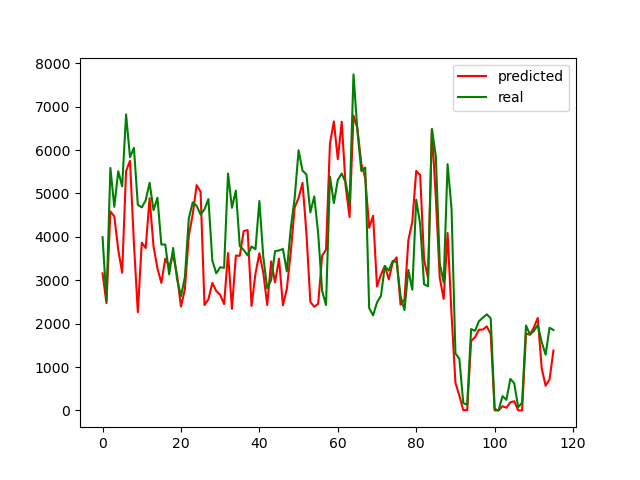
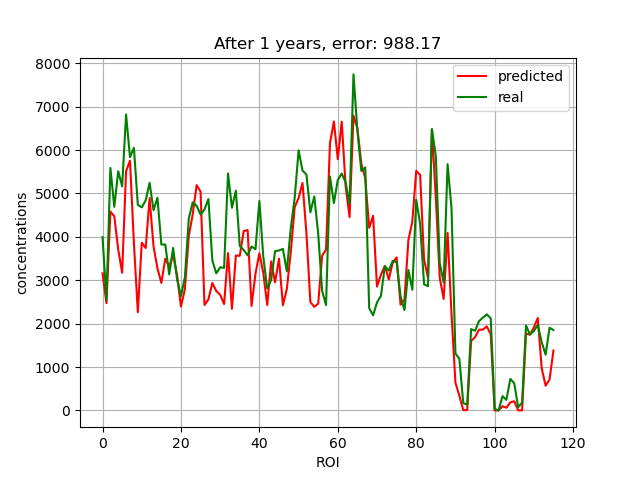
added plot axes labels

diff --git a/simulation_EMS/simulation_EMS.py b/simulation_EMS/simulation_EMS.py
@@ -176,10 +176,14 @@ class EMS_Simulation:
         plt.colorbar()
         return plt.show()
 
-    def plot_predicted_vs_real(self, predicted, real):
+    def plot_predicted_vs_real(self, predicted, real, year, error):
         x_axis = np.arange(116)
         plt.plot(x_axis, predicted, label='predicted', c = 'r')
         plt.plot(x_axis, real, label='real', c = 'g')
+        plt.grid()
+        plt.xlabel('ROI')
+        plt.ylabel('concentrations')
+        plt.title(f'After {year} years, error: {error:.2f}')
         plt.legend()
         plt.show()
 
@@ -187,9 +191,9 @@ class EMS_Simulation:
     def run_simulation(subject_path, subject):
         connectivity_matrix_path = os.path.join(subject_path, 'connect_matrix_rough.csv')
         concentration_path = os.path.join(subject_path, 'nodeIntensities-not-normalized-t0.csv')
-        # real_concentration_path = os.path.join(subject_path, 'nodeIntensities-not-normalized-t2.csv')
-        real_concentration_path = os.path.join(subject_path, 'nodeIntensities-not-normalized-t1.csv')
-        years = 1
+        real_concentration_path = os.path.join(subject_path, 'nodeIntensities-not-normalized-t2.csv')
+        #real_concentration_path = os.path.join(subject_path, 'nodeIntensities-not-normalized-t1.csv')
+        years = 2
 
         # load connectome
         connectivity_matrix = load_matrix(connectivity_matrix_path)
@@ -219,10 +223,8 @@ class EMS_Simulation:
 
         # predicted vs real plot
         predicted = Rmis_all[:, years-1]
-        simulation.plot_predicted_vs_real(predicted, real_concentration)
+        simulation.plot_predicted_vs_real(predicted, real_concentration, years, np.sqrt(mean_squared_error(real_concentration, predicted)))
 
-        # print error
-        print(f'RMSE: {np.sqrt(mean_squared_error(real_concentration, predicted))}')
         for t in range(simulation.T_total):
             Y = Pmis_all[:, :, t]
         
